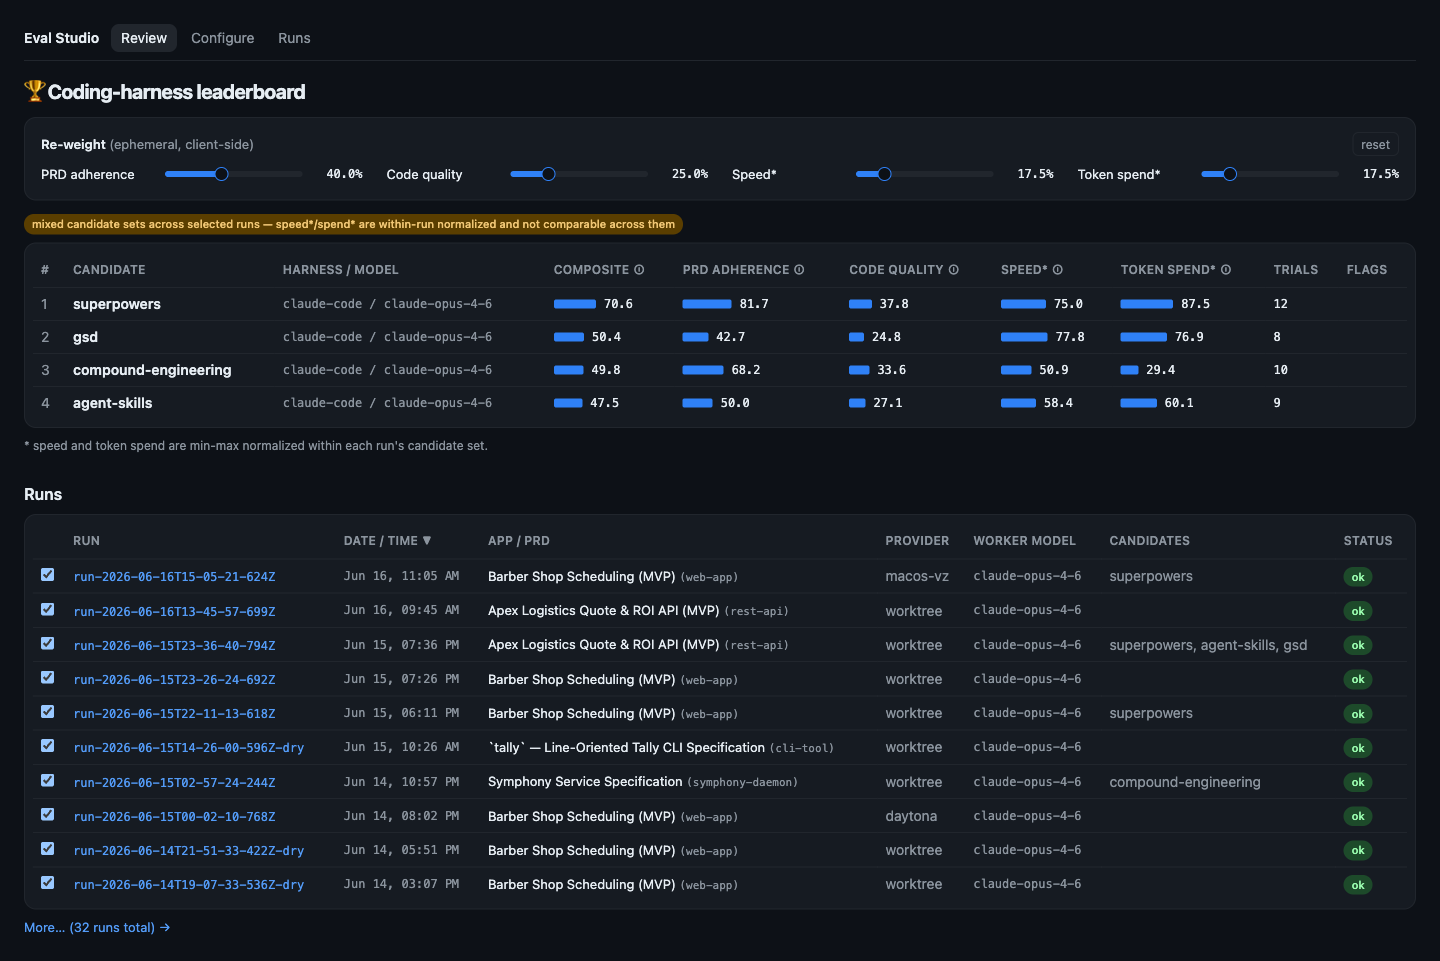
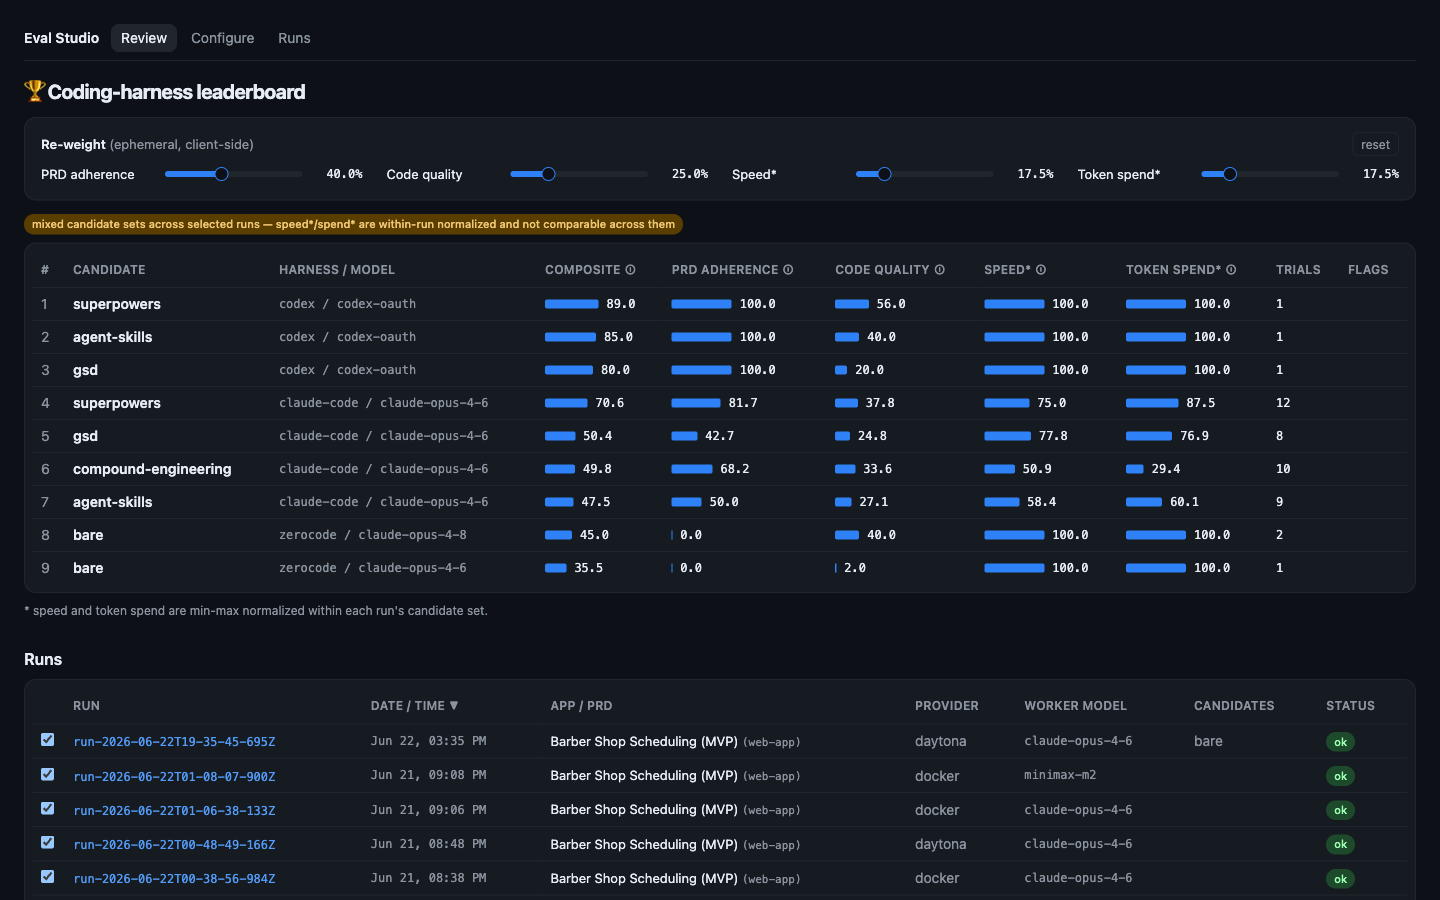
landing: refresh gallery for new functionality (cross-harness, artifact preview)
Updates the "See it in action" gallery to the current Eval Studio:
- Leaderboard + Configure re-shot — now cross-harness (Claude Code / Codex CLI /
  zerocode + a bare baseline), with the harness/model column and harness-aware
  candidate selection.
- New "Boot the artifact" item (artifact-preview): the read-only Artifacts audit
  + one-click live Demo that boots the built app in a sandbox and hands you a URL.
- Conversation item notes the viewer also streams live during the build
  (live-build-stream), redacted, then becomes the archived replay.

diff --git a/pages/index.html b/pages/index.html
@@ -70,25 +70,25 @@ footer { margin-top: 56px; padding-top: 18px; border-top: 1px solid #21262d; col
 
 	<h2>See it in action</h2>
 	<p class="flow">The whole lifecycle, from the ranked result down to the agent's every keystroke:
-		<b>Configure</b> → <b>Run</b> → <b>Review</b> → <b>Inspect a trial</b> → <b>Replay the build</b>.
+		<b>Configure</b> → <b>Run</b> → <b>Review</b> → <b>Inspect a trial</b> → <b>Boot the artifact</b> → <b>Replay the build</b>.
 		Click any screenshot to enlarge.</p>
 	<div class="shots">
 
 		<figure class="shot">
-			<a class="frame" href="./assets/gallery-1-leaderboard.png" target="_blank" rel="noopener"><img src="./assets/gallery-1-leaderboard.png" alt="Eval Studio leaderboard: candidate frameworks ranked by weighted composite with re-weight sliders, and a runs table tagged by app/PRD" loading="lazy" /></a>
+			<a class="frame" href="./assets/gallery-1-leaderboard.png" target="_blank" rel="noopener"><img src="./assets/gallery-1-leaderboard.png" alt="Eval Studio cross-harness leaderboard: candidates ranked by weighted composite with a harness/model column, re-weight sliders, and a runs table tagged by app/PRD" loading="lazy" /></a>
 			<figcaption class="cap">
 				<span class="step">The payoff · Leaderboard</span>
 				<h3>The ranked leaderboard</h3>
-				<p>The home view. Every framework that built the same spec, ranked by a weighted composite of PRD adherence, code quality, speed and token spend — with the dimension weights re-balanceable live (the sliders). Each row shows the harness + model it ran under; the table below lists the individual runs feeding the board, tagged by the app/PRD each one built.</p>
+				<p>The home view. Every candidate that built the same spec, ranked by a weighted composite of PRD adherence, code quality, speed and token spend — weights re-balanceable live (the sliders). The <strong>harness / model</strong> column makes it cross-harness, not just cross-framework: Claude Code frameworks, the Codex CLI, and a <code>bare</code> baseline sit on one board. The table below lists the runs feeding it, tagged by the app/PRD each built.</p>
 			</figcaption>
 		</figure>
 
 		<figure class="shot">
-			<a class="frame" href="./assets/gallery-2-configure.png" target="_blank" rel="noopener"><img src="./assets/gallery-2-configure.png" alt="Configure screen: pick eval target, candidate frameworks, harness, worker and grader models, sandbox provider, trials and concurrency" loading="lazy" /></a>
+			<a class="frame" href="./assets/gallery-2-configure.png" target="_blank" rel="noopener"><img src="./assets/gallery-2-configure.png" alt="Configure screen: pick eval target, the harness (Claude Code, Codex, zerocode), candidate frameworks, worker and grader models, sandbox provider, trials and concurrency" loading="lazy" /></a>
 			<figcaption class="cap">
 				<span class="step">Stage 1 · Set up</span>
 				<h3>Configure an evaluation</h3>
-				<p>Choose the eval target (the spec to build), the candidate frameworks, the harness and worker/grader models, the sandbox provider, trials and concurrency. Every candidate gets the <em>identical</em> rendered prompt — the framework is the only variable. The studio validates the combination against the same rules the CLI enforces, then lets you launch a real run, a zero-spend dry run, or copy the equivalent command.</p>
+				<p>Choose the eval target (the spec to build), the <strong>harness</strong> (Claude Code, Codex CLI, or zerocode), the candidate frameworks, worker + grader models, sandbox provider, trials and concurrency. Candidates that don't support the chosen harness grey out with the reason. Every candidate gets the <em>identical</em> rendered prompt — the only variable is what you're testing. The studio validates against the same rules the CLI enforces, then lets you launch a real run, a zero-spend dry run, or copy the command.</p>
 			</figcaption>
 		</figure>
 
@@ -120,11 +120,20 @@ footer { margin-top: 56px; padding-top: 18px; border-top: 1px solid #21262d; col
 		</figure>
 
 		<figure class="shot">
+			<a class="frame" href="./assets/gallery-7-artifacts.png" target="_blank" rel="noopener"><img src="./assets/gallery-7-artifacts.png" alt="Artifacts panel: read-only audit of what the agent built (file tree, sizes, cold-start contract, blind-copy scrubbed) and a one-click live demo with a sandboxed localhost URL" loading="lazy" /></a>
+			<figcaption class="cap">
+				<span class="step">Stage 5 · Boot the artifact</span>
+				<h3>Audit what was built — and run it</h3>
+				<p>A read-only audit of the deliverable: the full file tree with sizes, the cold-start contract, deps installed, and confirmation the blind judge copy was scrubbed. Then <strong>Start demo</strong> boots the built app from a copy in an isolated sandbox and hands you a live <code>localhost</code> URL — click through the actual thing the agent made, not just its source. (Non-web targets fall back to a captured cold-start run.)</p>
+			</figcaption>
+		</figure>
+
+		<figure class="shot">
 			<a class="frame" href="./assets/gallery-6-conversation.png" target="_blank" rel="noopener"><img src="./assets/gallery-6-conversation.png" alt="Conversation viewer: request/response build replay with session jumps, an error navigator stepping through the trial's errors, and an outline trace" loading="lazy" /></a>
 			<figcaption class="cap">
-				<span class="step">Stage 5 · Trace the build</span>
+				<span class="step">Stage 6 · Trace the build</span>
 				<h3>Replay the agent &amp; navigate errors</h3>
-				<p>The full build replay — every request/response between the harness and the model, with thinking, tool calls and outputs. Jump between sessions, step through the trial's errors one at a time (<code>◀ ⚠ 9 errors ▶</code>), or open the outline to trace exactly where a step went wrong.</p>
+				<p>The full build replay — every request/response between the harness and the model, with thinking, tool calls and outputs. Jump between sessions, step through the trial's errors one at a time (<code>◀ ⚠ 9 errors ▶</code>), or open the outline to trace where a step went wrong. The same viewer <strong>streams live</strong> while a build runs — every keystroke in real time, redacted of secrets — then seamlessly becomes the archived replay when the trial finishes.</p>
 			</figcaption>
 		</figure>
 